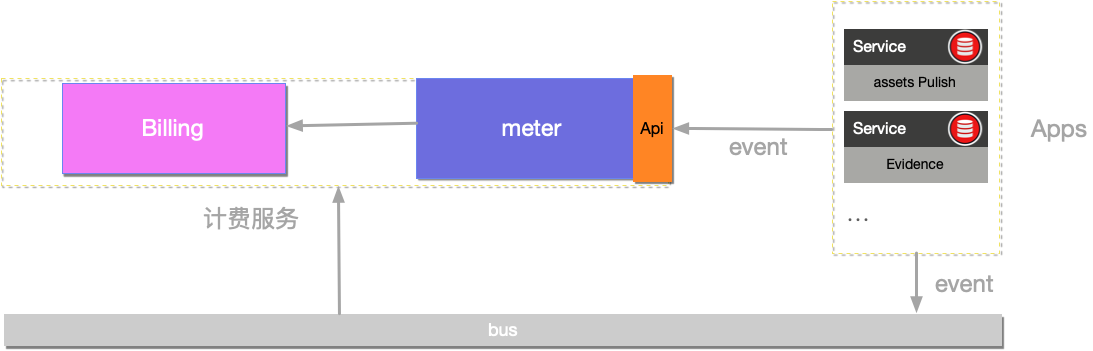
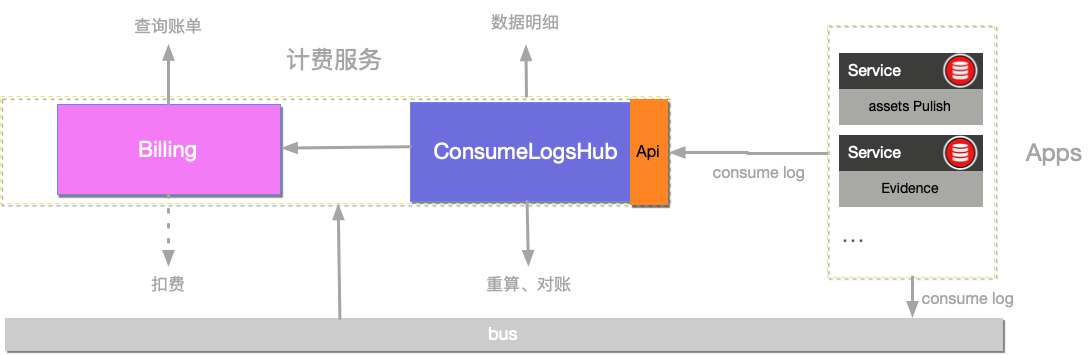
update billing flow

diff --git a/docs/qilin-contract/index.md b/docs/qilin-contract/index.md
@@ -51,15 +51,43 @@
 
 ![计费系统架构](../../images/qilin/contract/billing.png)
 
+#### 各模块功能描述
+
 ```text
-1. 外部系统提供消费信息（event）
-    1.1 提供event的方式有两种:
-    所有平台应用都会在执行消费操作时（比如 创建存证）发送消费信息到平台消息队列;
-    用户可以将以任何形式收集到的消费信息通过计费服务提供的 restful api传递到 meter 进行计量;
-2. 负责获取所有应用产生的 消费信息（event），对 消费信息 进行过滤、格式化，统计计量值发送给 billing
-3. 负责计算费用；meter 发送来的计量值 + （用户购买的资源包 + 计费策略）= 费用
+1. ConsumeLogsHub 获取所有应用产生的消费信息，对消费信息进行过滤、格式化、统计计量...
+2. Billing 计算费用；费用 = 计量值 &（用户购买的资源包 + 计费策略）
 ```
 
+#### 各模块细节设计
+
+```text
+1. ConsumeLogsHub 获取消费日志信息的方式有两种:
+    1.1 所有平台应用都会在执行消费操作时（比如 创建存证）发送消费信息到平台消息队列;
+    1.2 用户可以将以任何形式收集到的消费信息通过计费服务提供的 restful api传递到 ConsumeLogsHub 进行计量
+2. Billing 通过corn形式定时计费
+    2.1 获取一定时间范围的计量 
+    2.2 获取租户拥有的应用资源包、租户使用的应用价格
+    2.3 根据上面获取的信息统计费用（同时扣除用户余额或资源包条数）
+```
+
+#### 业务流程
+
+ **1）创建消费日志**
+
+```text
+确认交易 （transaction cron Confirm）
+1.确认交易状态成功 -> 创建消费日志 （App service CreateConsumerLog）
+```
+
+**2）统计费用**
+
+```text
+计费汇总（App cron）
+1. 查询一定时间范围的计量（contract service Metering）
+2. 查询租户拥有的应用资源包（App service ListLicenses 入参：todo）
+3. 查询租户使用的应用价格（App service ListApps 入参：todo）
+4. 计费并扣资源包和余额 （App service CreateAppStatistics）
+```
 
 
 
